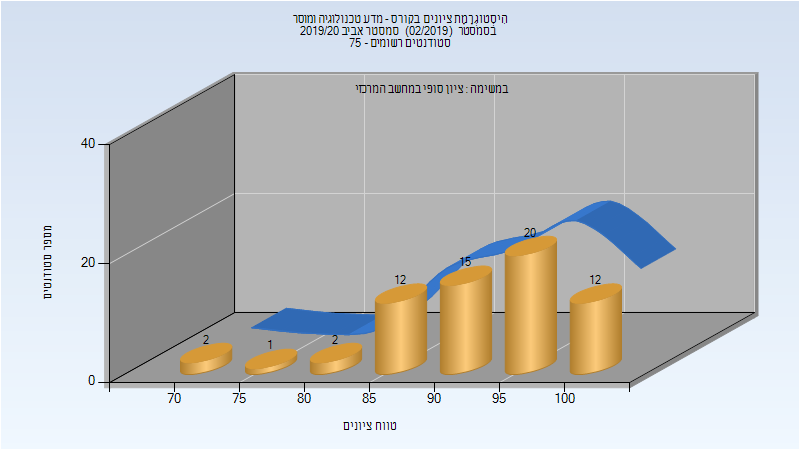
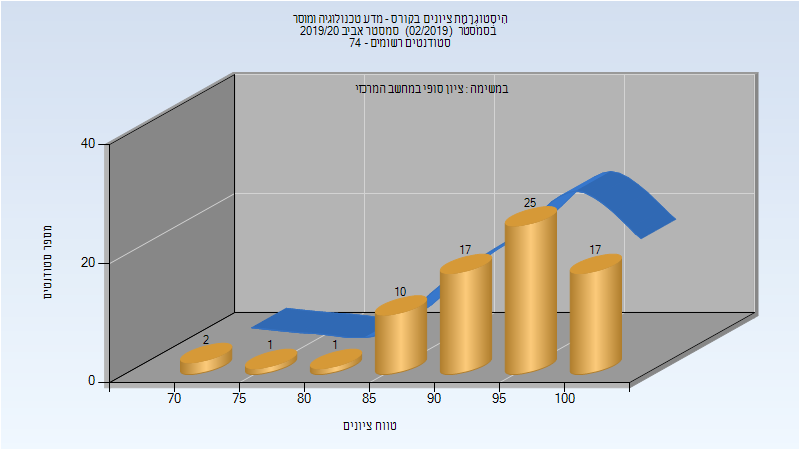
Deploy michael-maltsev/technion-histograms to github.com/michael-maltsev/technion-histograms.git:gh-pages

Changed region(s): [[0.4688, 0.3733, 0.8438, 0.7156], [0.375, 0.7156, 0.4688, 0.84]]

diff --git a/324395/index.html b/324395/index.html
@@ -369,13 +369,13 @@
 </thead>
 <tbody>
 <tr>
-<td>64</td>
-<td>64/0</td>
+<td>73</td>
+<td>73/0</td>
 <td>100</td>
 <td>70</td>
 <td>100</td>
-<td>91.328</td>
-<td>92.5</td>
+<td>92.466</td>
+<td>95</td>
 </tr>
 </tbody>
 </table>

diff --git a/324949/index.html b/324949/index.html
@@ -311,12 +311,12 @@
 </thead>
 <tbody>
 <tr>
-<td>82</td>
-<td>82/0</td>
+<td>89</td>
+<td>89/0</td>
 <td>100</td>
 <td>83</td>
 <td>100</td>
-<td>95.598</td>
+<td>95.742</td>
 <td>98</td>
 </tr>
 </tbody>

diff --git a/324395/README.md b/324395/README.md
@@ -110,7 +110,7 @@
 
 | סטודנטים | עברו/נכשלו | אחוז עוברים | ציון מינימלי | ציון מקסימלי | ממוצע | חציון |
 | ---- | ---- | ---- | ---- | ---- | ---- | ---- |
-| 64 | 64/0 | 100 | 70 | 100 | 91.328 | 92.5 |
+| 73 | 73/0 | 100 | 70 | 100 | 92.466 | 95 |
 
 ## קיץ 2020
 

diff --git a/324949/README.md b/324949/README.md
@@ -94,5 +94,5 @@
 
 | סטודנטים | עברו/נכשלו | אחוז עוברים | ציון מינימלי | ציון מקסימלי | ממוצע | חציון |
 | ---- | ---- | ---- | ---- | ---- | ---- | ---- |
-| 82 | 82/0 | 100 | 83 | 100 | 95.598 | 98 |
+| 89 | 89/0 | 100 | 83 | 100 | 95.742 | 98 |
 
